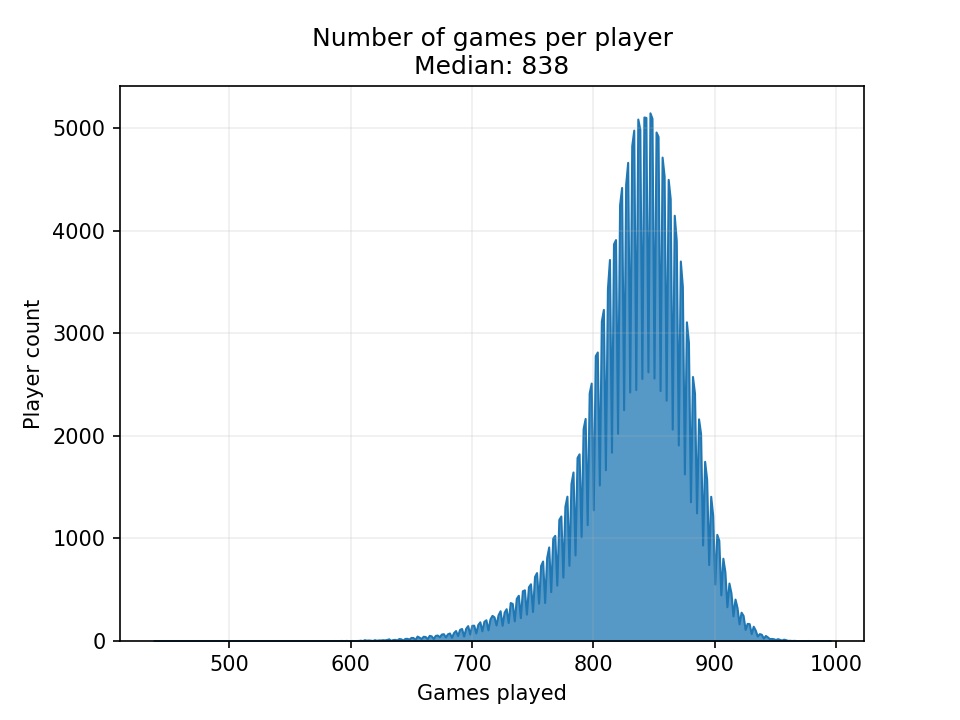
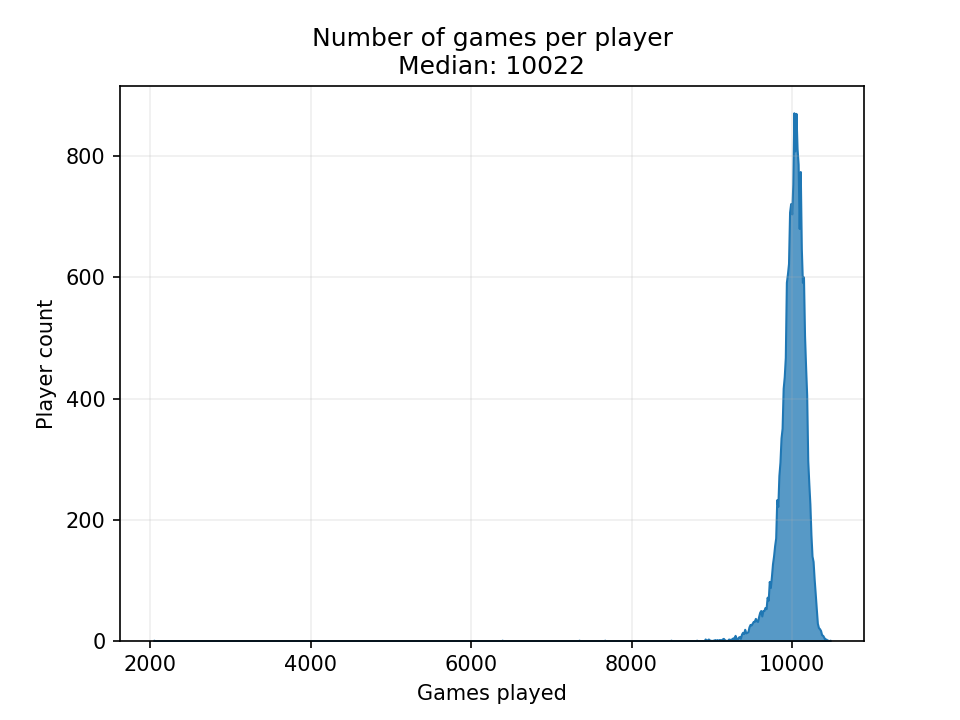
numpy arrays

diff --git a/sim.cpp b/sim.cpp
@@ -1,59 +1,36 @@
 #define PY_SSIZE_T_CLEAN
+#define NPY_NO_DEPRECATED_API NPY_1_7_API_VERSIO
 #include <Python.h>
+#include <numpy/arrayobject.h>
 #include "main.cpp" // dirty direct include
 #include "mutils.h" // random helper functions
 
 static char module_docstring[] =
     "Module simulating various strategies for matchmaking";
 
-// Declare first functions
-static PyObject *run_simulation(PyObject *self, PyObject *args);
-static PyObject *export_prediction_diff(PyObject *self, PyObject *args);
-
-/* Module methods (how it's called for python | how it's called here | arg-type | docstring) */
-static PyMethodDef module_methods[] = {
-    {"run_simulation", run_simulation, METH_VARARGS, "Runs a simulation with `players` and `iterations`"},
-    {"export_prediction_diff", export_prediction_diff, METH_NOARGS, "get prediction differences"},
-    {NULL, NULL, 0, NULL} // Last needs to be this
-};
-
-/*
-METH_VARARGS - typical
-METH_KEYWORDS - also keywords
-METH_NOARGS  - no arguments
-*/
-
-/* Initialize the module. Use to correct module name: psimulation here*/
-PyMODINIT_FUNC PyInit_psimulation(void)
-{
-    static struct PyModuleDef moduledef = {
-        PyModuleDef_HEAD_INIT,
-        "psimulation",
-        module_docstring,
-        -1,
-        module_methods,
-        NULL,
-        NULL,
-        NULL,
-        NULL};
-
-    return PyModule_Create(&moduledef);
-}
-
-// Helper function
-// Creares a dictionary of all player data
+// Helper function that creates a dictionary of all player data
 PyObject *get_player_data(const Player &p)
 {
-    PyObject *opponent_history = PyList_New(0);
-    PyObject *mmr_history = PyList_New(0);
-    PyObject *predicted_chances = PyList_New(0);
+    // All arrays of the same size
+    int size = p.opponent_history.size();
 
-    for (int i = 0; i < p.opponent_history.size(); i++)
-    {
-        PyList_Append(opponent_history, Py_BuildValue("d", p.opponent_history[i]));
-        PyList_Append(mmr_history, Py_BuildValue("d", p.mmr_history[i]));
-        PyList_Append(predicted_chances, Py_BuildValue("d", p.predicted_chances[i]));
-    }
+    // Allocate data for c-arrays
+    double *c_opponent_history = new double[size];
+    double *c_mmr_history = new double[size];
+    double *c_predicted_chances = new double[size];
+
+    // Copy from vectors into c-arrays
+    std::copy(p.opponent_history.begin(), p.opponent_history.end(), c_opponent_history);
+    std::copy(p.mmr_history.begin(), p.mmr_history.end(), c_mmr_history);
+    std::copy(p.predicted_chances.begin(), p.predicted_chances.end(), c_predicted_chances);
+
+    // Create numpy objects
+    npy_intp m = size;
+    PyObject *opponent_history = PyArray_SimpleNewFromData(1, &m, NPY_DOUBLE, c_opponent_history);
+    PyObject *mmr_history = PyArray_SimpleNewFromData(1, &m, NPY_DOUBLE, c_mmr_history);
+    PyObject *predicted_chances = PyArray_SimpleNewFromData(1, &m, NPY_DOUBLE, c_predicted_chances);
+
+    // Build a final player object
     return Py_BuildValue("{sdsdsOsOsO}", "skill", p.skill, "mmr", p.mmr, "opponent_history", opponent_history, "mmr_history", mmr_history, "predicted_chances", predicted_chances);
 }
 
@@ -78,60 +55,41 @@ static PyObject *run_simulation(PyObject *self, PyObject *args)
     return Data;
 }
 
+// Exports prediction diff as a numpy array
 static PyObject *export_prediction_diff(PyObject *self, PyObject *args)
 {
     std::vector<double> &prediction_diff = get_prediction_diff();
-    PyObject *pylist = PyList_New(0);
-    for (const double &i : prediction_diff)
-    {
-        PyList_Append(pylist, Py_BuildValue("d", i));
-    }
-    return pylist;
+    // Allocate memory for a new array
+    double *carray = new double[prediction_diff.size()];
+    // Copy values to it
+    std::copy(prediction_diff.begin(), prediction_diff.end(), carray);
+    // Specify its dimension/size in them
+    npy_intp m = prediction_diff.size();
+    // Create numpy array and return
+    return PyArray_SimpleNewFromData(1, &m, NPY_DOUBLE, carray);
 }
 
-// Now that all mess is initialized, lets look at actual functions
+/* Module methods (how it's called for python | how it's called here | arg-type | docstring) METH_VARARGS/METH_KEYWORDS/METH_NOARGS */
+static PyMethodDef module_methods[] = {
+    {"run_simulation", run_simulation, METH_VARARGS, "Runs a simulation with `players` and `iterations`"},
+    {"export_prediction_diff", export_prediction_diff, METH_NOARGS, "get prediction differences (numpy array)"},
+    {NULL, NULL, 0, NULL} // Last needs to be this
+};
 
-/* Python type parsing:
+/* Initialize the module. Use to correct module name: psimulation here*/
+PyMODINIT_FUNC PyInit_psimulation(void)
+{
+    static struct PyModuleDef moduledef = {
+        PyModuleDef_HEAD_INIT,
+        "psimulation",
+        module_docstring,
+        -1,
+        module_methods,
+        NULL,
+        NULL,
+        NULL,
+        NULL};
 
-c   char            A Python string of length 1 becomes a C char.
-d   double          A Python float becomes a C double.
-f   float           A Python float becomes a C float.
-i   int             A Python int becomes a C int.
-l   long            A Python int becomes a C long.
-L   long long       A Python int becomes a C long long
-O   PyObject*       Gets non-NULL borrowed reference to Python argument.
-s   char*           Python string without embedded nulls to C char*.
-s#  char*+int       Any Python string to C address and length.
-t#  char*+int       Read-only single-segment buffer to C address and length.
-u   Py_UNICODE*     Python Unicode without embedded nulls to C.
-u#  Py_UNICODE*+int     Any Python Unicode C address and length.
-w#  char*+int       Read/write single-segment buffer to C address and length.
-z   char*           Like s, also accepts None (sets C char* to NULL).
-z#  char*+int       Like s#, also accepts None (sets C char* to NULL).
-(...)               as per ...  A Python sequence is treated as one argument per item.
-|                   The following arguments are optional.
-:                   Format end, followed by function name for error messages.
-;                   Format end, followed by entire error message text.
-
-Python type returning:
-
-c   char            A C char becomes a Python string of length 1.
-d   double          A C double becomes a Python float.
-f   float           A C float becomes a Python float.
-i   int             A C int becomes a Python int.
-l   long            A C long becomes a Python int.
-N   PyObject*       Passes a Python object and steals a reference.
-O   PyObject*       Passes a Python object and INCREFs it as normal.
-O&  convert+void*   Arbitrary conversion
-s   char*           C 0-terminated char* to Python string, or NULL to None.
-s#  char*+int       C char* and length to Python string, or NULL to None.
-u   Py_UNICODE*     C-wide, null-terminated string to Python Unicode, or NULL to None.
-u#  Py_UNICODE*+int C-wide string and length to Python Unicode, or NULL to None.
-w#  char*+int       Read/write single-segment buffer to C address and length.
-z   char*           Like s, also accepts None (sets C char* to NULL).
-z#  char*+int       Like s#, also accepts None (sets C char* to NULL).
-(...)               as per ...  Builds Python tuple from C values.
-[...]               as per ...  Builds Python list from C values.
-{...}               as per ...  Builds Python dictionary from C values, alternating keys and values.
-
-*/
+    import_array(); // necessary for numpy initialization
+    return PyModule_Create(&moduledef);
+}

diff --git a/analyse.py b/analyse.py
@@ -1,6 +1,7 @@
 import math
 import statistics
 import time
+from functools import partial
 
 import matplotlib.pyplot as plt
 import numpy as np
@@ -9,11 +10,12 @@ import seaborn as sns
 import psimulation
 
 start = time.time()
+
 ### RUN SIMULATION
-PLAYERS = 240000
-GAMES = 1000000
+PLAYERS = 20000
+GAMES = 100000000
 data = psimulation.run_simulation(PLAYERS, GAMES)
-prediction_differences = np.array(psimulation.export_prediction_diff())
+prediction_differences = psimulation.export_prediction_diff()
 
 ### PLOTTING
 start_plotting = time.time()
@@ -25,11 +27,16 @@ def chance_skill(diff):
     return 1 / (1 + math.exp(-diff / 173.718))  # ELO points
 
 
+def chance_skill_two(a, b):
+    """ Returns the chance for a player to win based on skill difference"""
+    return chance_skill(a - b)
+
+
 ## PREDICTION DIFFERENCES
 def plot_prediction_differences():
     plt.figure().clear()
     factor = 50
-    L = int(len(prediction_differences) / factor)
+    L = int(prediction_differences.size / factor)
     means = []
     stdevs = [[], []]
     x = []
@@ -71,6 +78,7 @@ print(f"Prediction plotting finished in {time.time()-start_pred:.3f} seconds")
 ## PLAYER HISTORY
 def plot_mmr_history(DATAVALUES=6):
     plt.figure().clear()
+    # ** posibly replace set here with np.unique (test perf on bigger sets)
     unique_opponents = [len(set(i["opponent_history"])) for i in data]
     extremes = [
         p for p in sorted(data, key=lambda x: x["skill"], reverse=True)
@@ -79,15 +87,19 @@ def plot_mmr_history(DATAVALUES=6):
     fig, ax = plt.subplots(5, 1)
 
     for i in range(3):
-        ax[0].plot(range(len(extremes[i]['mmr_history'])),
+        ax[0].plot(np.linspace(0, extremes[i]['mmr_history'].size - 1,
+                               extremes[i]['mmr_history'].size),
                    extremes[i]['mmr_history'],
                    label=f"Player skill: {extremes[i]['skill']:.2f}")
-        chances = [
-            chance_skill(extremes[i]['skill'] - opponent)
-            for opponent in extremes[i]['opponent_history']
-        ]
 
-        ax[1].scatter(range(len(chances)), chances, s=2)
+        player_chances = np.vectorize(
+            partial(chance_skill_two, extremes[i]['skill']))
+
+        chances = player_chances(extremes[i]['opponent_history'])
+
+        ax[1].scatter(np.linspace(0, chances.size - 1, chances.size),
+                      chances,
+                      s=2)
         if i == 0:
             ax[2].plot(chances, label="True chances")
 
@@ -115,7 +127,8 @@ def plot_mmr_history(DATAVALUES=6):
 
     # the worst player
     p = extremes[-1]
-    chances = [chance_skill(p['skill'] - opp) for opp in p['opponent_history']]
+    player_chances = np.vectorize(partial(chance_skill_two, p['skill']))
+    chances = player_chances(p['opponent_history'])
     ax[4].plot(chances, label="True chances")
     ax[4].plot(p["predicted_chances"], label="Predicted chances")
     ax[4].legend()
@@ -129,7 +142,8 @@ def plot_mmr_history(DATAVALUES=6):
 
     # average player
     p = extremes[int(len(extremes) / 2)]
-    chances = [chance_skill(p['skill'] - opp) for opp in p['opponent_history']]
+    player_chances = np.vectorize(partial(chance_skill_two, p['skill']))
+    chances = player_chances(p['opponent_history'])
     ax[3].plot(chances, label="True chances")
     ax[3].plot(p["predicted_chances"], label="Predicted chances")
     ax[3].legend()
@@ -150,17 +164,21 @@ def plot_mmr_history(DATAVALUES=6):
     for player in players:
         mmr = player["mmr_history"]
         opp = player["opponent_history"]
-        p = ax[0].plot(list(range(len(mmr))), mmr, linewidth=0.3)
+        p = ax[0].plot(np.linspace(0, mmr.size - 1, mmr.size),
+                       mmr,
+                       linewidth=0.3)
         ax[0].text(len(mmr) - 0.9,
                    mmr[-1],
                    f'{player["skill"]:.3f}',
                    ha="left",
                    va="center",
                    color=p[0].get_color())
-        p = ax[1].plot(list(range(len(opp))), opp, linewidth=0.3)
-        ax[1].text(len(opp) + 1,
+        p = ax[1].plot(np.linspace(0, opp.size - 1, opp.size),
+                       opp,
+                       linewidth=0.3)
+        ax[1].text(opp.size + 1,
                    opp[-1],
-                   len(set(opp)),
+                   opp.size,
                    ha="left",
                    color=p[0].get_color())
 
@@ -185,16 +203,16 @@ print(f"MMR history plotting finished in {time.time()-start_hist:.3f} seconds")
 
 ### Sort data
 data = [i for i in sorted(data, key=lambda x: x["skill"])]
-skills = [i["skill"] for i in data]
-mmrs = [i["mmr"] for i in data]
+skills = np.array([i["skill"] for i in data])
+mmrs = np.array([i["mmr"] for i in data])
 
 
 def plot_other():
     ## MMR - SKILL
     plt.figure().clear()
     plt.plot(skills, mmrs)
-    plt.plot([min(skills), max(skills)],
-             [min(skills), max(skills)],
+    plt.plot([np.min(skills), np.max(skills)],
+             [np.min(skills), np.max(skills)],
              color="black",
              linewidth=0.5)
     plt.title(f"MMR - Skill relation ({GAMES/PLAYERS:.0f} games/player)")
@@ -216,6 +234,7 @@ def plot_other():
 
     # Plotting lines where a player has 75% chance to win against previous line
     # More lines means more diverse population of skills
+    # ** ideally calculate distance in points and then plot (much faster)
     lines = 0
     previous_skill = None
     for skill in skills:
@@ -263,7 +282,7 @@ def plot_other():
     ax2 = ax1.twinx()
     ndata = [i for i in sorted(data, key=lambda x: x["mmr"])]
     nmmrs = [i["mmr"] for i in ndata]
-    histories = [len(i["opponent_history"]) for i in ndata]
+    histories = [i["opponent_history"].size for i in ndata]
     ax2.scatter(nmmrs, histories, s=2)
     ax2.set_ylabel(
         f"Game count per player ({min(histories)}-{max(histories)})",
@@ -275,7 +294,7 @@ def plot_other():
 
     ## Games played
     plt.figure().clear()
-    games_played = [len(i["opponent_history"]) for i in data]
+    games_played = [i["opponent_history"].size for i in data]
     sns.histplot(games_played, element='poly')
     plt.xlabel("Games played")
     plt.ylabel("Player count")
@@ -287,5 +306,5 @@ def plot_other():
 
 
 plot_other()
-print(f"Plotting finished in {time.time()-start_plotting:.3f} seconds")
+print(f"Other plotting finished in {time.time()-start_plotting:.3f} seconds")
 print(f"Total time: {time.time()-start:.3f} seconds")
